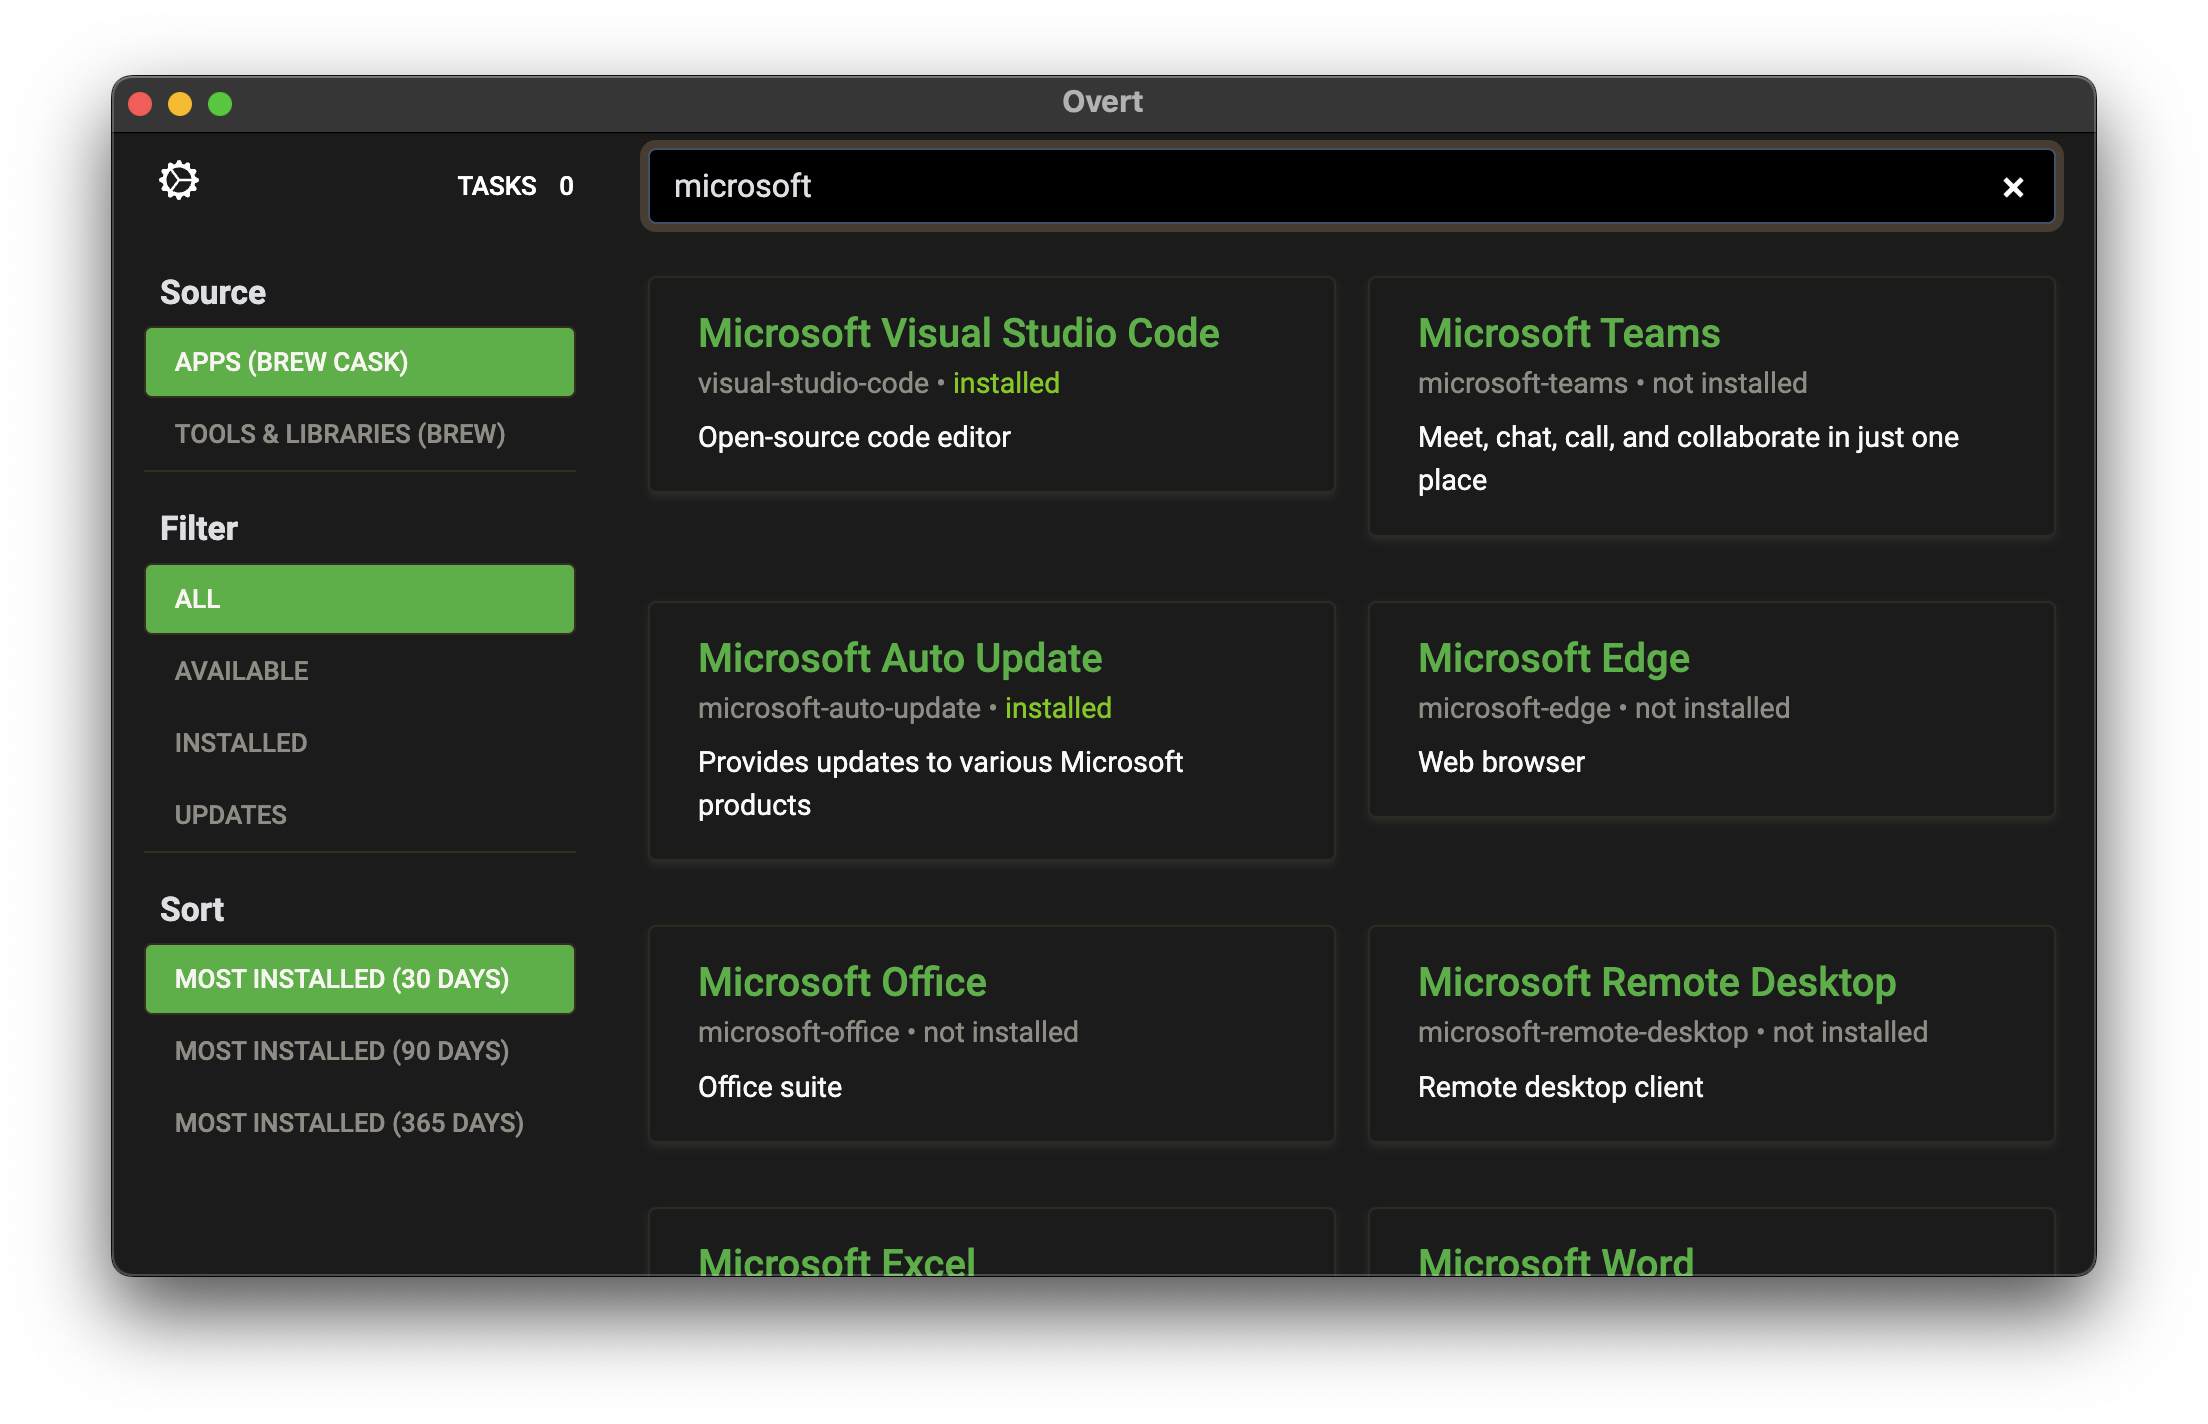
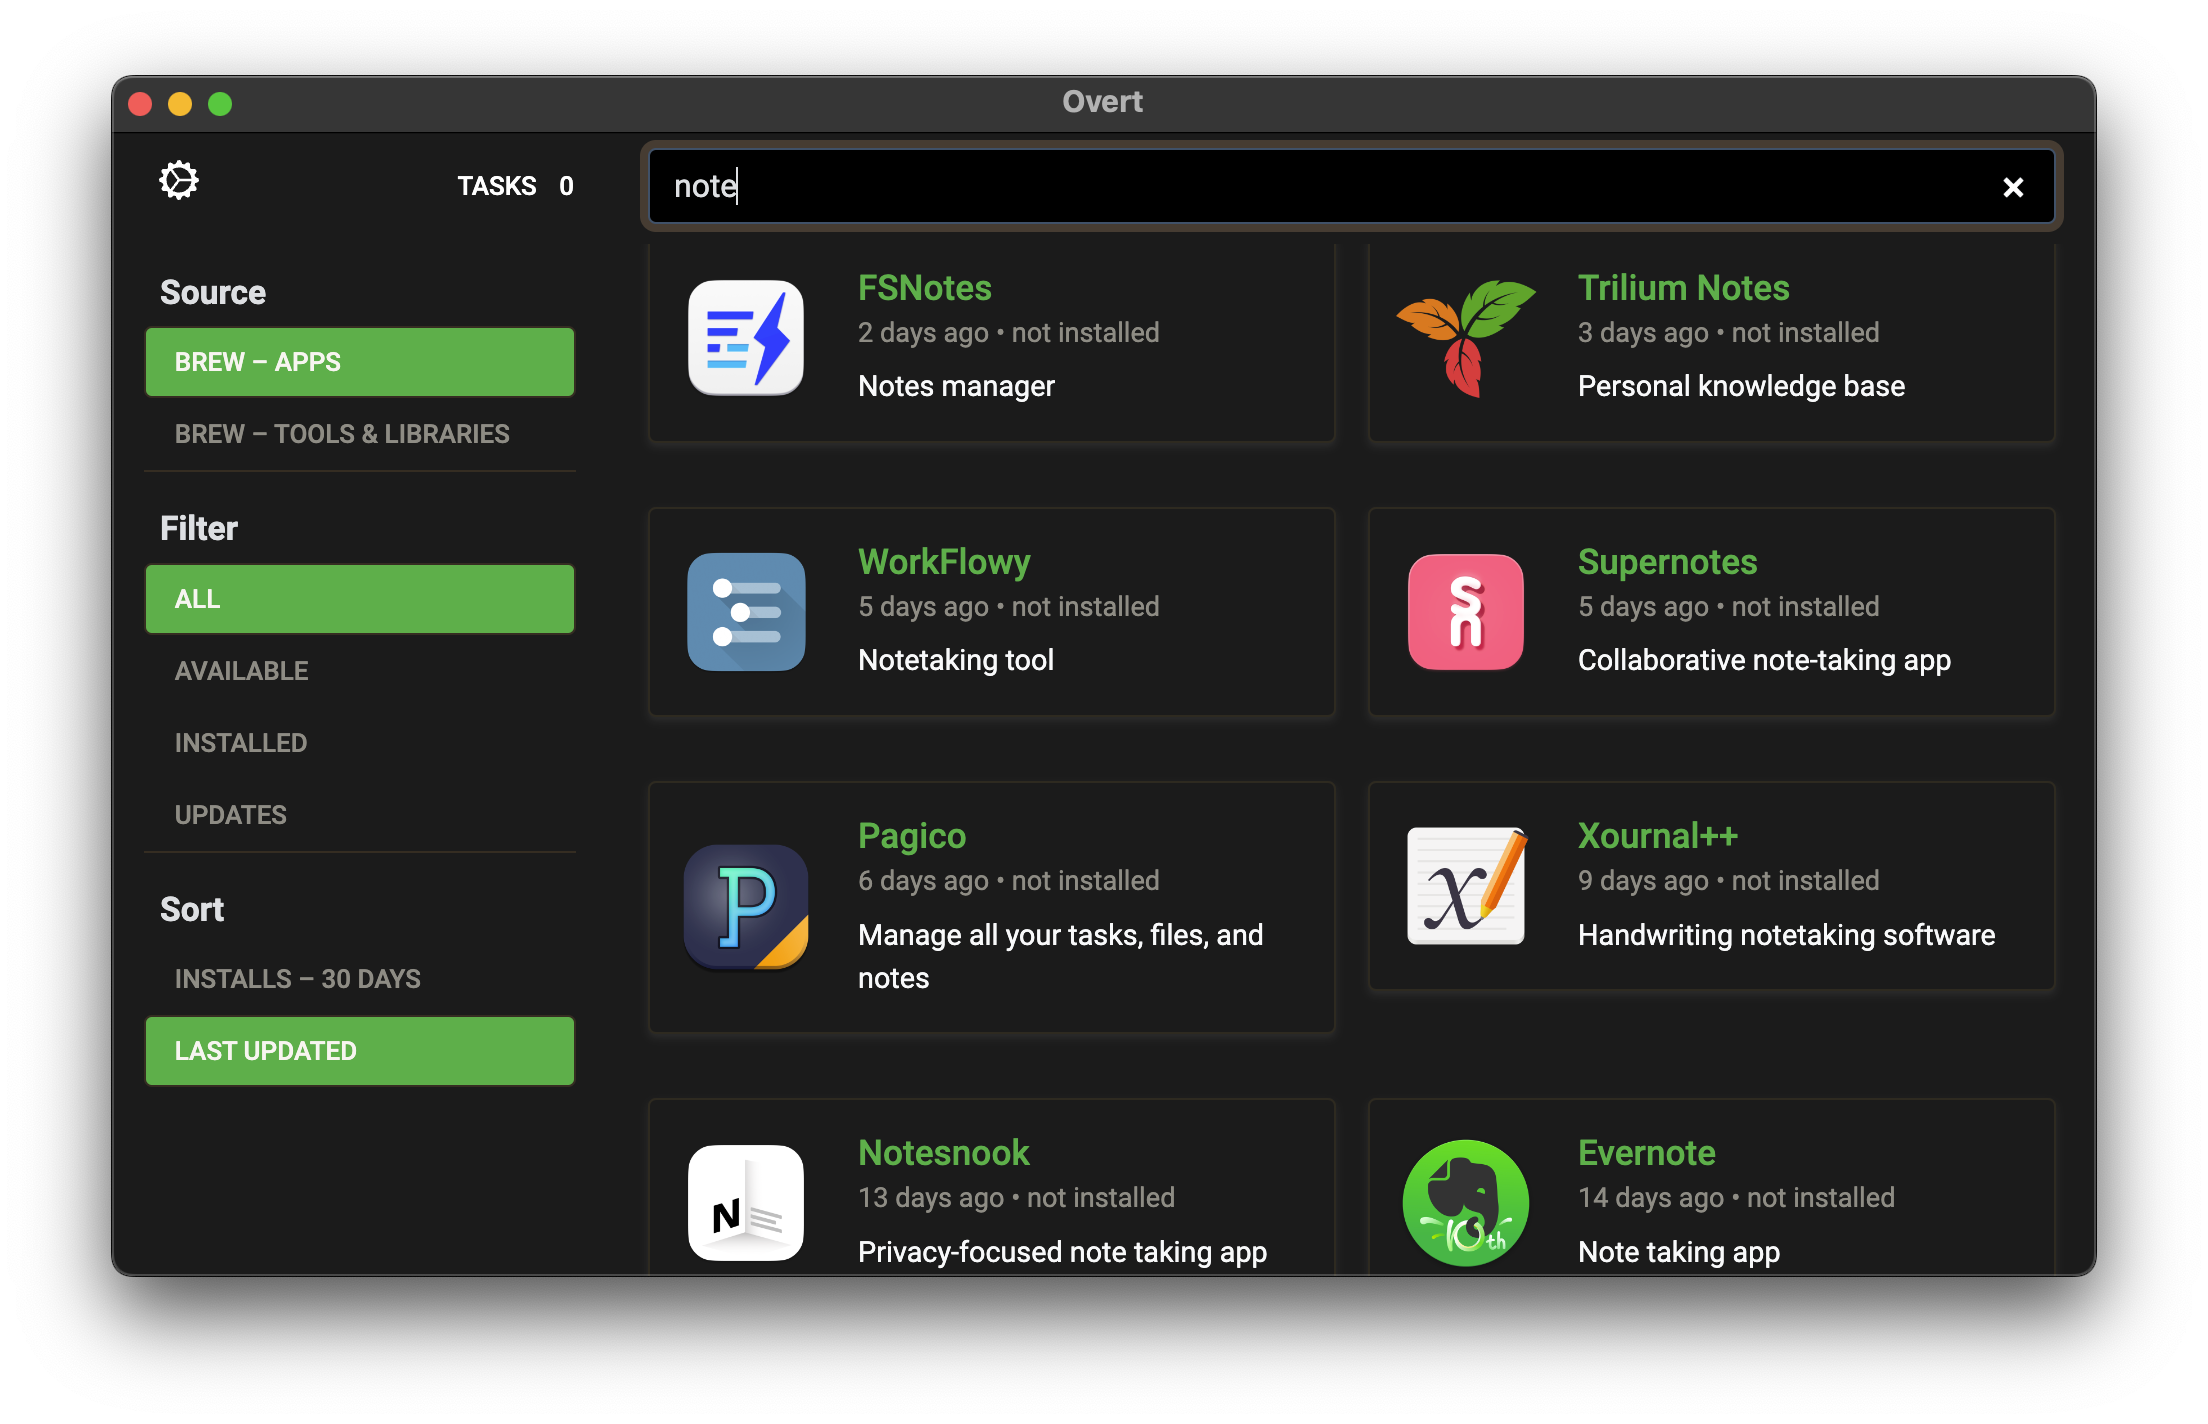
Update screenshots

diff --git a/src/pages/about/index.md b/src/pages/about/index.md
@@ -47,13 +47,13 @@ In the default catalog sources, app downloads always come from the developers' *
   <a data-bs-toggle="modal" href="#lightbox" onclick="lightbox(event.target)">
     <img
       src="/images/screenshot-1.png"
-      alt="Searching for apps, search term is &quot;Microsoft&quot;"
+      alt="Searching for apps, search term is &quot;note&quot;"
     />
   </a>
   <a data-bs-toggle="modal" href="#lightbox" onclick="lightbox(event.target)">
     <img
       src="/images/screenshot-2.png"
-      alt="Installing Microsoft Excel"
+      alt="Viewing app details for Google Chrome; action button reads &quot;Install&quot;"
     />
   </a>
   <a data-bs-toggle="modal" href="#lightbox" onclick="lightbox(event.target)">
@@ -66,13 +66,13 @@ In the default catalog sources, app downloads always come from the developers' *
     <img
       src="/images/screenshot-4.png"
       height="568"
-      alt="Settings pane"
+      alt="Overt settings pane"
     />
   </a>
   <a data-bs-toggle="modal" href="#lightbox" onclick="lightbox(event.target)">
     <img
       src="/images/screenshot-5.png"
-      alt="Tasks pane with Log view open"
+      alt="Overt tasks pane with Log view open"
     />
   </a>
 </div>
